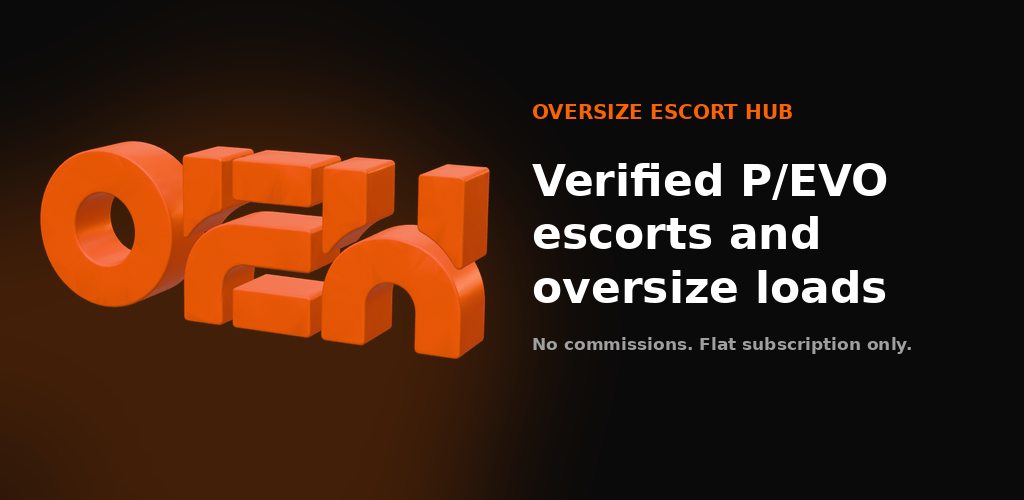
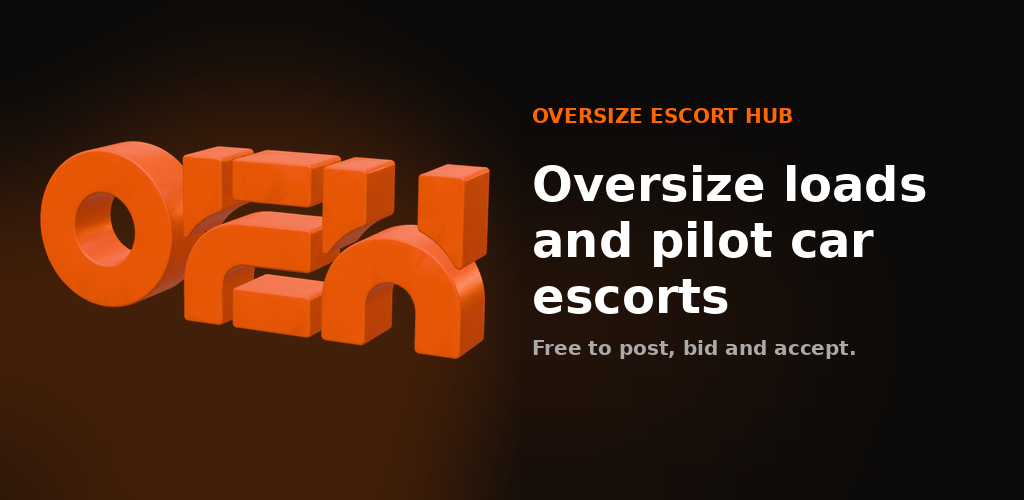
Redraw the share image and the Play feature graphic: no 'verified' and no 'flat subscription' claims (free to post, bid and accept)
Claude-Session: https://claude.ai/code/session_01GWiFPTRpVkjA3Aoc4PoWzg

Changed region(s): [[0.5, 0.33, 0.9062, 0.63], [0.5, 0.66, 0.9062, 0.72], [0.5, 0.21, 0.7812, 0.27]]

diff --git a/docs/NOT_LIVE_YET.md b/docs/NOT_LIVE_YET.md
@@ -6,7 +6,7 @@ Switched off in one place: `lib/verification.ts` (`VERIFICATION_LIVE`, default o
 - "Verified" badges (BGC, P/EVO, vehicle, admin, FMCSA ticks on loads) no longer shown anywhere; the DOT "Mark as FMCSA Verified" card is hidden; admin cannot hand out badges.
 - Marketing and legal copy that said "verified" (site title and descriptions, About, Terms, Privacy, Features, How it works, Pricing, Join, Checkout, home page) now says we do not check or verify anyone.
 - Existing flags in the database were left as they are (two accounts: the owner's test escort has bgc/pevo, one carrier has fmcsa). Nothing reads or shows them while `VERIFICATION_LIVE` is off.
-- Veteran discount: switched off 2026-10-26 (the DD-214 upload and review routes answer 410; DD-214s carry SSN and birth date and we cannot verify them). Owner: "way later". If it returns, use a status-check service so we never hold a DD-214. Still NOT touched:, the "Official Evergreen Safety Council Member / partner" wording, public images that may say "verified" (og-image, verified.png). Decide on those.
+- Veteran discount: switched off 2026-10-26 (the DD-214 upload and review routes answer 410; DD-214s carry SSN and birth date and we cannot verify them). Owner: "way later". If it returns, use a status-check service so we never hold a DD-214. Still NOT touched:, the "Official Evergreen Safety Council Member / partner" wording, public images that may say "verified" (verified.png and pending.png are unused files; og-image and the Play feature graphic were redrawn on 2026-10-26 without "verified" or "flat subscription"). Decide on those.
  (so they do not take space while we make the free stuff work)
 
 Rule from the owner (2026-10-26): focus on the free parts, make sure every one works, build nothing from this list until he says.
